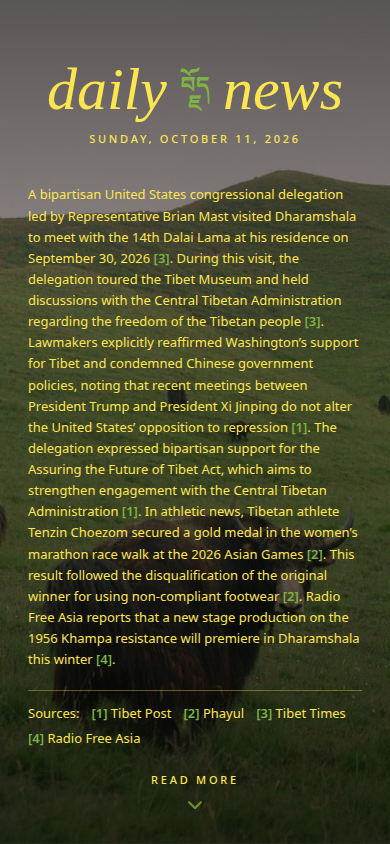
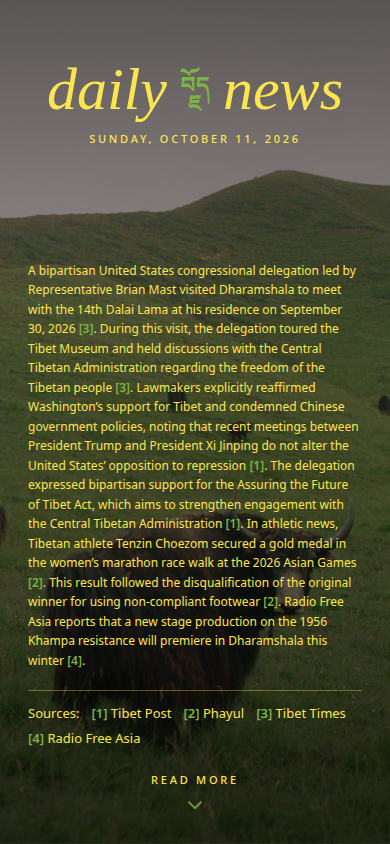
Set summary to 18px desktop / 12px mobile

Changed region(s): [[0.0615, 0.2156, 0.9231, 0.8009]]

diff --git a/client/src/pages/daily-homepage.tsx b/client/src/pages/daily-homepage.tsx
@@ -110,11 +110,11 @@ export function DailyHomepage() {
           {/* Summary */}
           <section className="px-7 md:px-12">
             {summary ? (
-              <p className="text-left text-[13px] leading-relaxed md:text-[20px]">
+              <p className="text-left text-[12px] leading-relaxed md:text-[18px]">
                 <CitedOverview text={summary.overview} />
               </p>
             ) : (
-              <p className="animate-pulse text-left text-[13px] leading-relaxed opacity-70 md:text-[20px]">
+              <p className="animate-pulse text-left text-[12px] leading-relaxed opacity-70 md:text-[18px]">
                 {failed
                   ? "Today's briefing isn't ready yet."
                   : 'Preparing today\u2019s briefing\u2026'}
